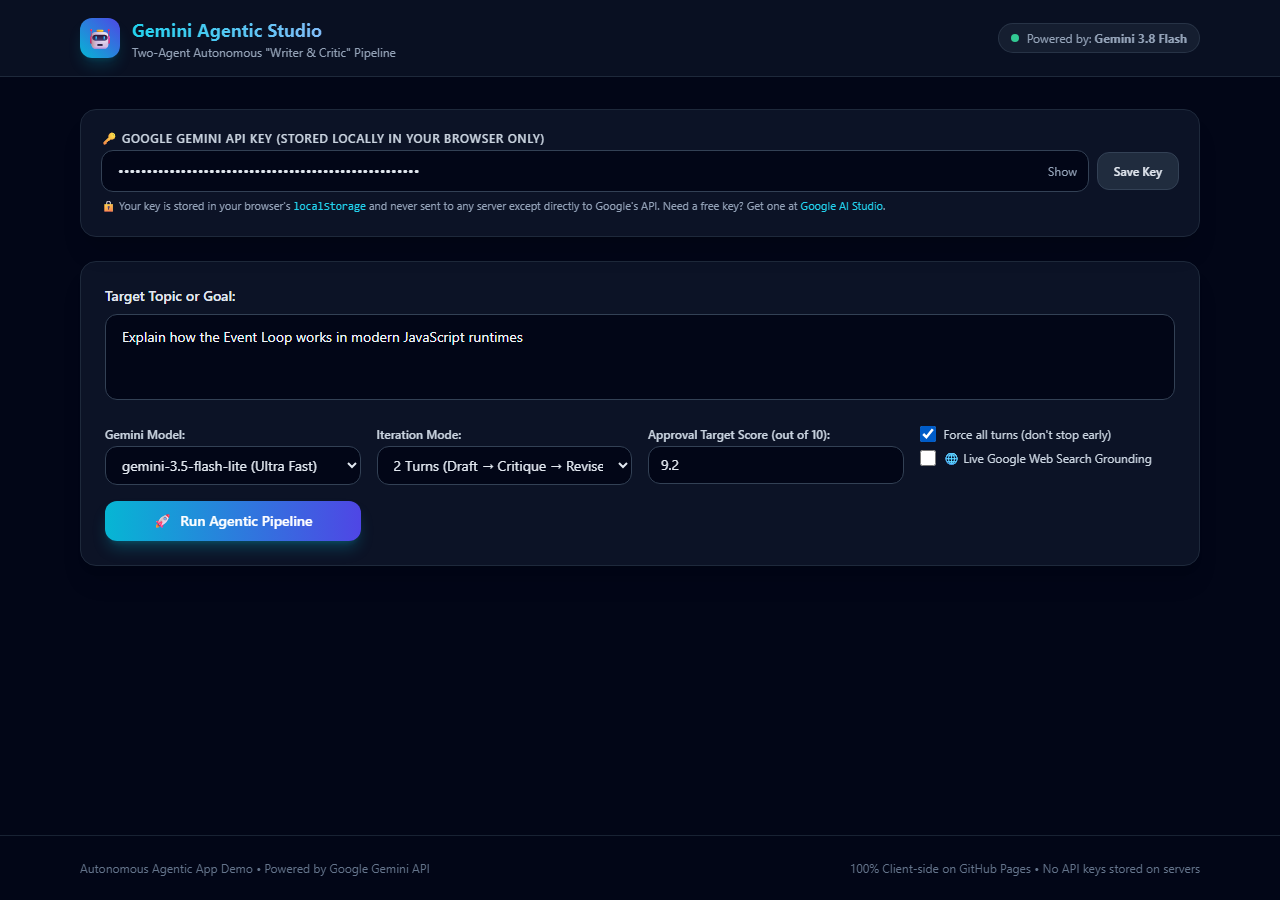
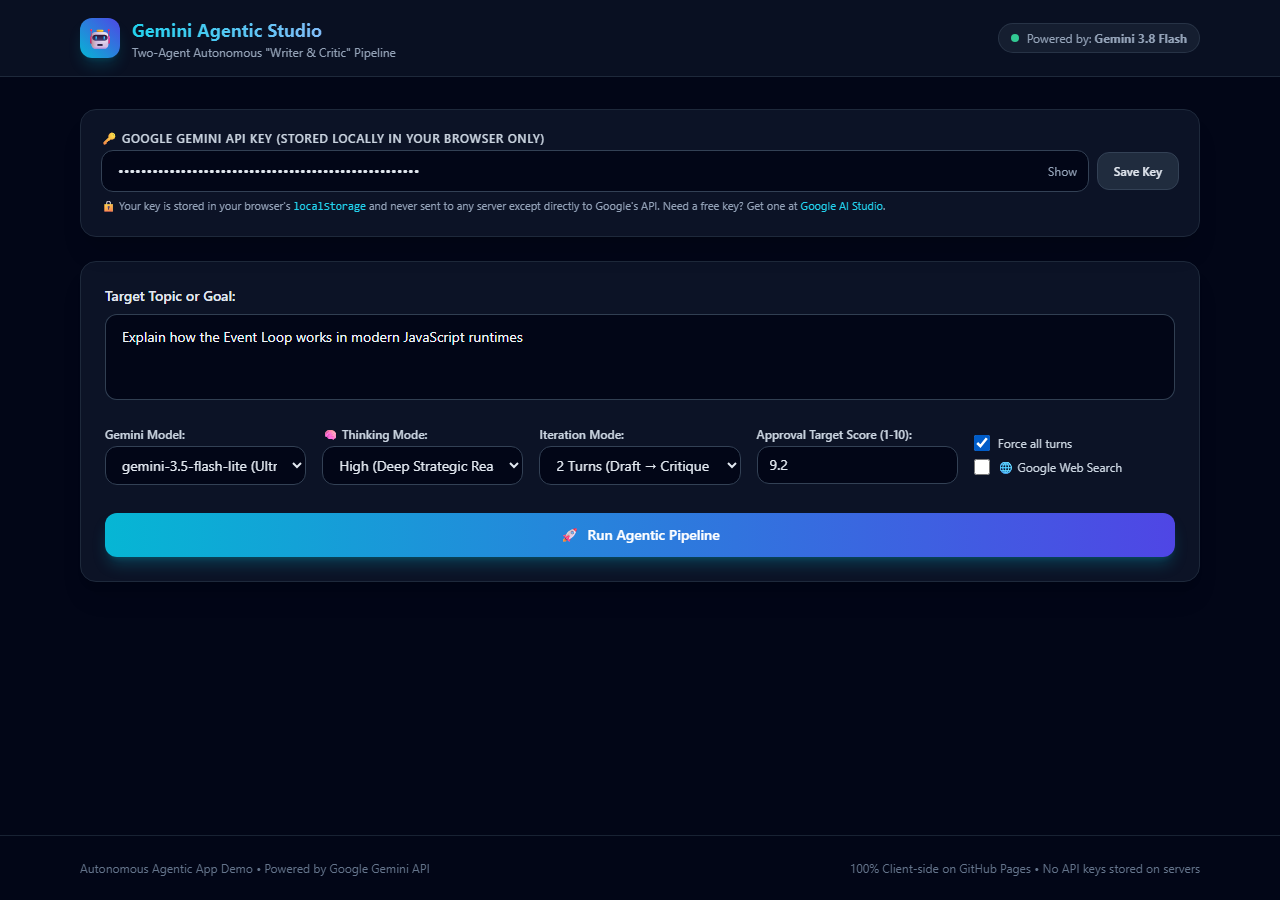
Update browser test script and screenshots for thinking mode verification

Changed region(s): [[0.0625, 0.4667, 0.9375, 0.6533]]

diff --git a/test_browser.py b/test_browser.py
@@ -16,6 +16,10 @@ PAGE_URL = "https://ivanadriman.github.io/anAgenticApp/"
 SCREENSHOTS_DIR = os.path.join(os.getcwd(), "test_screenshots")
 os.makedirs(SCREENSHOTS_DIR, exist_ok=True)
 
+if sys.platform == "win32":
+    sys.stdout.reconfigure(encoding="utf-8", errors="replace")
+    sys.stderr.reconfigure(encoding="utf-8", errors="replace")
+
 def run_browser_tests():
     print(f"Launching automated browser to visit: {PAGE_URL}")
     with sync_playwright() as p:
@@ -47,8 +51,15 @@ def run_browser_tests():
         print(f"Stored key in localStorage matches API_KEY: {bool(stored_key and stored_key == API_KEY)}")
 
         # Test Case 2: Select Model and Options
-        print("\n--- Test Case 2: Setting Parameters & Toggles ---", flush=True)
+        print("\n--- Test Case 2: Setting Parameters, Thinking Mode & Toggles ---", flush=True)
         page.select_option("#modelSelect", "gemini-3.5-flash-lite")
+        
+        # Test Thinking Mode selection
+        thinking_box = page.locator("#thinkingLevelSelect")
+        print(f"Thinking Mode selector present: {thinking_box.count() > 0}", flush=True)
+        page.select_option("#thinkingLevelSelect", "high")
+        print(f"Selected thinking mode: {thinking_box.input_value()}", flush=True)
+
         page.select_option("#maxTurnsSelect", "2")
         page.locator("#targetScoreInput").fill("9.2")
         
